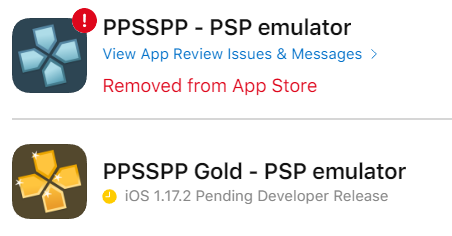
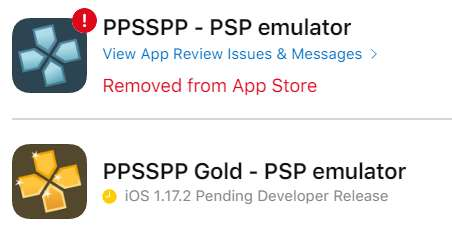
Compress ios-app-connect.jpg

diff --git a/news/2024-06-03-ppsspp-ios-1.17.2.md b/news/2024-06-03-ppsspp-ios-1.17.2.md
@@ -19,7 +19,7 @@ PPSSPP for iOS 1.17.2, both regular and Gold, have been sent for review. The Gol
 
 This is the status of my apps in the App Store as I'm writing this, just before triggering the rollout of 1.17.2:
 
-![Picture of App Connect showing the free version taken down](/static/img/news/ios-app-connect.png)
+![Picture of App Connect showing the free version taken down](/static/img/news/ppsspp_ios_1.17.2/ios-app-connect.jpg)
 
 I'm trying everything to get the free version up again:
 
